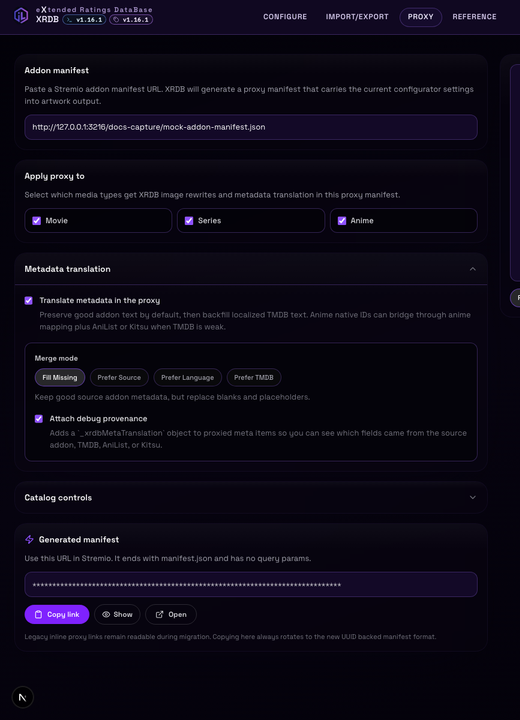
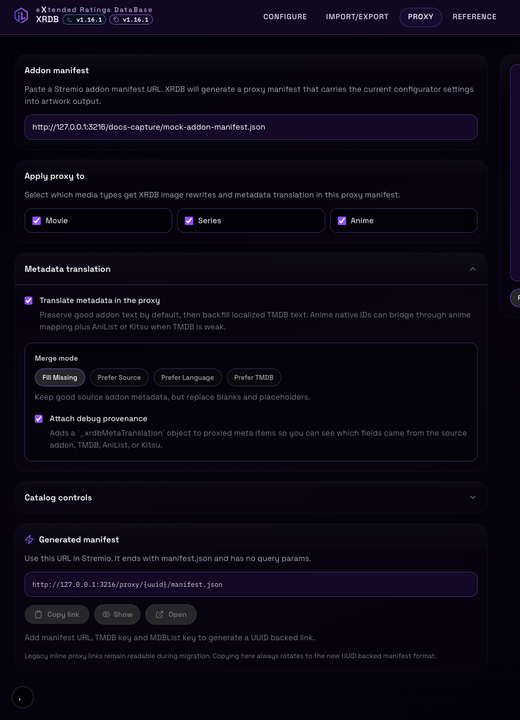
chore: release 1.17.0

Changed region(s): [[0.0308, 0.7944, 0.8308, 0.9167]]

diff --git a/lib/imageRouteConfig.ts b/lib/imageRouteConfig.ts
@@ -89,7 +89,7 @@ export const BACKDROP_IMAGE_DIMENSIONS: Record<BackdropImageSize, { width: numbe
   '4k': { width: 3840, height: 2160 },
 };
 export const DEFAULT_BLOCKBUSTER_DENSITY: BlockbusterDensity = 'balanced';
-export const FINAL_IMAGE_RENDERER_CACHE_VERSION = 'poster-backdrop-logo-v111';
+export const FINAL_IMAGE_RENDERER_CACHE_VERSION = 'poster-backdrop-logo-v112';
 export const XRDB_REQUEST_API_KEYS = getConfiguredXrdbRequestKeys();
 export const ANILIST_GRAPHQL_URL =
   process.env.XRDB_ANILIST_GRAPHQL_URL?.trim() || 'https://graphql.anilist.co';

diff --git a/README.md b/README.md
@@ -8,7 +8,7 @@ XRDB, eXtended Ratings DataBase, generates poster, backdrop, thumbnail, and logo
 <!-- changelog-links:start -->
 
 > [!TIP]
-> **Changelog:** read the [full changelog](CHANGELOG.md) or jump straight to the [latest entry](CHANGELOG.md#v1-16-1).
+> **Changelog:** read the [full changelog](CHANGELOG.md) or jump straight to the [latest entry](CHANGELOG.md#v1-17-0).
 
 <!-- changelog-links:end -->
 
@@ -84,10 +84,10 @@ The doc refresh and release workflows rotate through a curated, varied set of pr
     <td><strong>Game of Thrones</strong><br>Plain ratings, TMDB / IMDb / Trakt / Metacritic, split side layout, detached age rating</td>
   </tr>
   <tr>
-    <td><a href="https://xrdb.ibbylabs.dev/preview/attack-on-titan-poster?cb=readme-preview-attack-on-titan-poster-v1-16-1"><img src="https://xrdb.ibbylabs.dev/preview/attack-on-titan-poster?cb=readme-preview-attack-on-titan-poster-v1-16-1" alt="Attack on Titan poster live preview" width="220"></a></td>
-    <td><a href="https://xrdb.ibbylabs.dev/preview/dune-part-two-poster?cb=readme-preview-dune-part-two-poster-v1-16-1"><img src="https://xrdb.ibbylabs.dev/preview/dune-part-two-poster?cb=readme-preview-dune-part-two-poster-v1-16-1" alt="Dune Part Two poster live preview" width="220"></a></td>
-    <td><a href="https://xrdb.ibbylabs.dev/preview/stranger-things-poster?cb=readme-preview-stranger-things-poster-v1-16-1"><img src="https://xrdb.ibbylabs.dev/preview/stranger-things-poster?cb=readme-preview-stranger-things-poster-v1-16-1" alt="Stranger Things poster live preview" width="220"></a></td>
-    <td><a href="https://xrdb.ibbylabs.dev/preview/game-of-thrones-poster?cb=readme-preview-game-of-thrones-poster-v1-16-1"><img src="https://xrdb.ibbylabs.dev/preview/game-of-thrones-poster?cb=readme-preview-game-of-thrones-poster-v1-16-1" alt="Game of Thrones poster live preview" width="220"></a></td>
+    <td><a href="https://xrdb.ibbylabs.dev/preview/attack-on-titan-poster?cb=readme-preview-attack-on-titan-poster-v1-17-0"><img src="https://xrdb.ibbylabs.dev/preview/attack-on-titan-poster?cb=readme-preview-attack-on-titan-poster-v1-17-0" alt="Attack on Titan poster live preview" width="220"></a></td>
+    <td><a href="https://xrdb.ibbylabs.dev/preview/dune-part-two-poster?cb=readme-preview-dune-part-two-poster-v1-17-0"><img src="https://xrdb.ibbylabs.dev/preview/dune-part-two-poster?cb=readme-preview-dune-part-two-poster-v1-17-0" alt="Dune Part Two poster live preview" width="220"></a></td>
+    <td><a href="https://xrdb.ibbylabs.dev/preview/stranger-things-poster?cb=readme-preview-stranger-things-poster-v1-17-0"><img src="https://xrdb.ibbylabs.dev/preview/stranger-things-poster?cb=readme-preview-stranger-things-poster-v1-17-0" alt="Stranger Things poster live preview" width="220"></a></td>
+    <td><a href="https://xrdb.ibbylabs.dev/preview/game-of-thrones-poster?cb=readme-preview-game-of-thrones-poster-v1-17-0"><img src="https://xrdb.ibbylabs.dev/preview/game-of-thrones-poster?cb=readme-preview-game-of-thrones-poster-v1-17-0" alt="Game of Thrones poster live preview" width="220"></a></td>
   </tr>
 </table>
 
@@ -100,9 +100,9 @@ The doc refresh and release workflows rotate through a curated, varied set of pr
     <td><strong>Stranger Things</strong><br>Square ratings, TMDB / Rotten Tomatoes / Metacritic / Letterboxd, stream badges, right side stack</td>
   </tr>
   <tr>
-    <td><a href="https://xrdb.ibbylabs.dev/preview/attack-on-titan-backdrop?cb=readme-preview-attack-on-titan-backdrop-v1-16-1"><img src="https://xrdb.ibbylabs.dev/preview/attack-on-titan-backdrop?cb=readme-preview-attack-on-titan-backdrop-v1-16-1" alt="Attack on Titan backdrop live preview" width="320"></a></td>
-    <td><a href="https://xrdb.ibbylabs.dev/preview/the-boys-backdrop?cb=readme-preview-the-boys-backdrop-v1-16-1"><img src="https://xrdb.ibbylabs.dev/preview/the-boys-backdrop?cb=readme-preview-the-boys-backdrop-v1-16-1" alt="The Boys backdrop live preview" width="320"></a></td>
-    <td><a href="https://xrdb.ibbylabs.dev/preview/stranger-things-backdrop?cb=readme-preview-stranger-things-backdrop-v1-16-1"><img src="https://xrdb.ibbylabs.dev/preview/stranger-things-backdrop?cb=readme-preview-stranger-things-backdrop-v1-16-1" alt="Stranger Things backdrop live preview" width="320"></a></td>
+    <td><a href="https://xrdb.ibbylabs.dev/preview/attack-on-titan-backdrop?cb=readme-preview-attack-on-titan-backdrop-v1-17-0"><img src="https://xrdb.ibbylabs.dev/preview/attack-on-titan-backdrop?cb=readme-preview-attack-on-titan-backdrop-v1-17-0" alt="Attack on Titan backdrop live preview" width="320"></a></td>
+    <td><a href="https://xrdb.ibbylabs.dev/preview/the-boys-backdrop?cb=readme-preview-the-boys-backdrop-v1-17-0"><img src="https://xrdb.ibbylabs.dev/preview/the-boys-backdrop?cb=readme-preview-the-boys-backdrop-v1-17-0" alt="The Boys backdrop live preview" width="320"></a></td>
+    <td><a href="https://xrdb.ibbylabs.dev/preview/stranger-things-backdrop?cb=readme-preview-stranger-things-backdrop-v1-17-0"><img src="https://xrdb.ibbylabs.dev/preview/stranger-things-backdrop?cb=readme-preview-stranger-things-backdrop-v1-17-0" alt="Stranger Things backdrop live preview" width="320"></a></td>
   </tr>
 </table>
 
@@ -115,9 +115,9 @@ The doc refresh and release workflows rotate through a curated, varied set of pr
     <td><strong>Game of Thrones</strong><br>French text, plain ratings, TMDB / IMDb / Trakt / Metacritic, transparent canvas</td>
   </tr>
   <tr>
-    <td><a href="https://xrdb.ibbylabs.dev/preview/dune-part-two-logo?cb=readme-preview-dune-part-two-logo-v1-16-1"><img src="https://xrdb.ibbylabs.dev/preview/dune-part-two-logo?cb=readme-preview-dune-part-two-logo-v1-16-1" alt="Dune Part Two logo live preview" width="320"></a></td>
-    <td><a href="https://xrdb.ibbylabs.dev/preview/attack-on-titan-logo?cb=readme-preview-attack-on-titan-logo-v1-16-1"><img src="https://xrdb.ibbylabs.dev/preview/attack-on-titan-logo?cb=readme-preview-attack-on-titan-logo-v1-16-1" alt="Attack on Titan logo live preview" width="320"></a></td>
-    <td><a href="https://xrdb.ibbylabs.dev/preview/game-of-thrones-logo?cb=readme-preview-game-of-thrones-logo-v1-16-1"><img src="https://xrdb.ibbylabs.dev/preview/game-of-thrones-logo?cb=readme-preview-game-of-thrones-logo-v1-16-1" alt="Game of Thrones logo live preview" width="320"></a></td>
+    <td><a href="https://xrdb.ibbylabs.dev/preview/dune-part-two-logo?cb=readme-preview-dune-part-two-logo-v1-17-0"><img src="https://xrdb.ibbylabs.dev/preview/dune-part-two-logo?cb=readme-preview-dune-part-two-logo-v1-17-0" alt="Dune Part Two logo live preview" width="320"></a></td>
+    <td><a href="https://xrdb.ibbylabs.dev/preview/attack-on-titan-logo?cb=readme-preview-attack-on-titan-logo-v1-17-0"><img src="https://xrdb.ibbylabs.dev/preview/attack-on-titan-logo?cb=readme-preview-attack-on-titan-logo-v1-17-0" alt="Attack on Titan logo live preview" width="320"></a></td>
+    <td><a href="https://xrdb.ibbylabs.dev/preview/game-of-thrones-logo?cb=readme-preview-game-of-thrones-logo-v1-17-0"><img src="https://xrdb.ibbylabs.dev/preview/game-of-thrones-logo?cb=readme-preview-game-of-thrones-logo-v1-17-0" alt="Game of Thrones logo live preview" width="320"></a></td>
   </tr>
 </table>
 ## Rendering Option Comparisons

diff --git a/CHANGELOG.md b/CHANGELOG.md
@@ -57,6 +57,50 @@
 
 <a id="v1-16-1"></a>
 
+<a id="v1-17-0"></a>
+
+## [v1.17.0] - 12/04/2026
+
+### Added
+* FR-68 add console log levels
+  
+  Add a shared server logger with debug, info, warn, and error levels.
+  
+  Keep request logging disabled by default, add XRDB_REQUEST_LOG_LEVEL for opt in request visibility, and route info output to stdout while warnings and errors stay on stderr.
+  
+  Migrate runtime logging call sites, add focused logger tests, and document the new env vars in the runtime docs.
+* prioritize uuid saved profile portability
+  
+  Promote protected UUID profiles to the primary Import/Export workflow and add a first class restore path for opening an existing saved profile on another device.
+  
+  Recognize ?config=<uuid> links in configurator import and URL hydration, surface restore prompts in Configure and Import/Export, and default AIOMetadata exports to config mode URLs unless the user explicitly switches back to inline.
+  
+  Refresh README, reference copy, and generated doc assets to match the saved profile first workflow, and cover the new mode selection and config link parsing behavior with focused tests.
+
+### Fixed
+* FR-67 scope link imports by type
+  
+  Refactor configurator link import parsing into scoped visual patches instead of full workspace replacement.
+  
+  Add import review UI for shared visual settings and cross type destination selection, and merge selected patches onto current profile params.
+  
+  Expand focused import regression coverage for same type preservation, excluded non visual values, shared setting prompts, and compatible cross type mapping.
+* restore password visibility toggles
+  
+  Add eye toggles back to saved profile password inputs in the export view.
+  
+  Keep matching password and confirm password fields in sync when revealing sensitive values.
+* BUG-79 clarify saved profile update scope
+  
+  Extract shared config profile fingerprint helpers for saved profile dirty state.
+  
+  Clarify that export only controls stay local to the browser and do not affect Update saved profile.
+  
+  Add focused regression tests for persisted setting changes versus local only controls.
+
+### Documentation
+* refresh static doc assets
+
 ## [v1.16.1] - 11/04/2026
 
 ### Fixed
